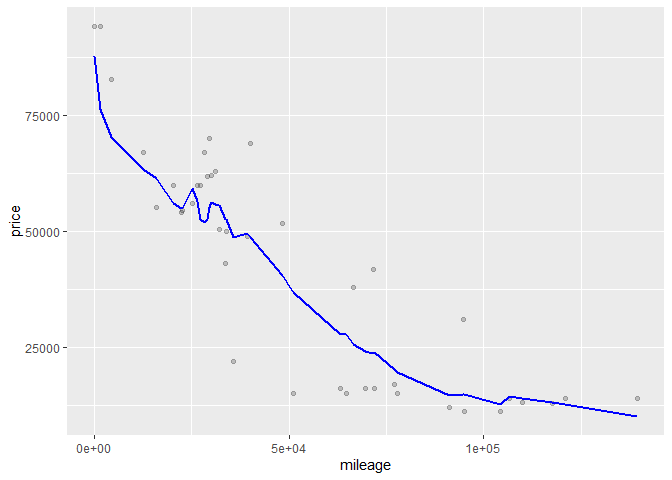
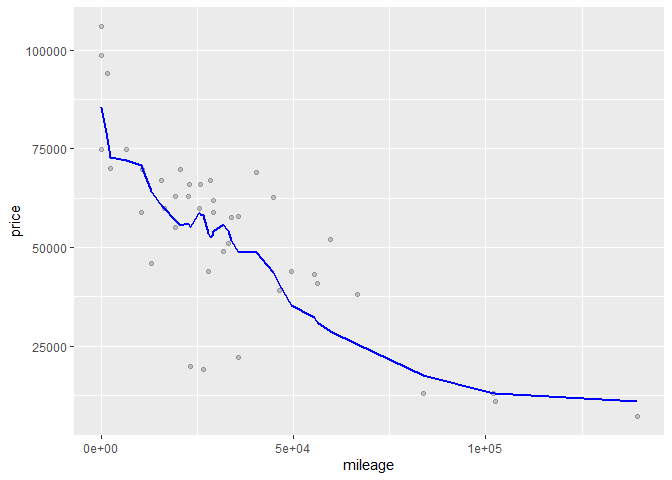
change

diff --git a/Final_Data-Mining-HW1.md b/Final_Data-Mining-HW1.md
@@ -121,7 +121,7 @@ are two of the most popular destinations in the US.
 trim_350=sclass%>%filter(trim==350)
 ```
 
-\#train/test split (0.1/0.9)
+\#train/test split (0.9/0.1)
 
 ``` r
 # Make a train-test split
@@ -138,7 +138,7 @@ knn2 = knnreg(price ~ mileage, data=trim_350_train , k=2)
 rmse(knn2, trim_350_test)
 ```
 
-    ## [1] 12323.95
+    ## [1] 14675.72
 
 KNN with K = 5
 
@@ -148,7 +148,7 @@ knn5 = knnreg(price ~ mileage, data=trim_350_train , k=5)
 rmse(knn5, trim_350_test)
 ```
 
-    ## [1] 10263.44
+    ## [1] 13713
 
 KNN with K = 10
 
@@ -158,7 +158,7 @@ knn10 = knnreg(price ~ mileage, data=trim_350_train , k=10)
 rmse(knn10, trim_350_test)
 ```
 
-    ## [1] 10247.21
+    ## [1] 13752.62
 
 \#RMSE versus K
 
@@ -174,7 +174,7 @@ rmse(knn10, trim_350_test)
 trim_65AMG=sclass%>%filter(trim=='65 AMG')
 ```
 
-\#train/test split (0.1/0.9)
+\#train/test split (0.9/0.1)
 
 ``` r
 # Make a train-test split
@@ -191,7 +191,7 @@ knn2 = knnreg(price ~ mileage, data=trim_65AMG_train , k=2)
 rmse(knn2, trim_65AMG_test)
 ```
 
-    ## [1] 24767.76
+    ## [1] 25228.86
 
 KNN with K = 5
 
@@ -201,7 +201,7 @@ knn5 = knnreg(price ~ mileage, data=trim_65AMG_train , k=5)
 rmse(knn5, trim_65AMG_test)
 ```
 
-    ## [1] 20873.88
+    ## [1] 22109.78
 
 KNN with K = 10
 
@@ -211,7 +211,7 @@ knn10 = knnreg(price ~ mileage, data=trim_65AMG_train , k=10)
 rmse(knn10, trim_65AMG_test)
 ```
 
-    ## [1] 20147
+    ## [1] 20279.01
 
 \#RMSE versus K
 
@@ -221,7 +221,7 @@ rmse(knn10, trim_65AMG_test)
 
 ![](Final_Data-Mining-HW1_files/figure-gfm/unnamed-chunk-30-1.png)<!-- -->
 
-According to my train-test split(0.1/0/9) 65 AMG yield greater value of
+According to my train-test split(0.9/0.1) 65 AMG yield greater value of
 K, but since the sample is not very big, it depends on the random
 process that R assign the train/test split. I think the reason that two
 trim has different values of K is mainly because 65 AMG has smaller data
